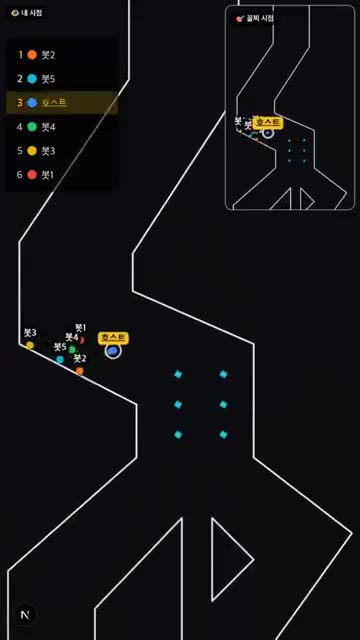
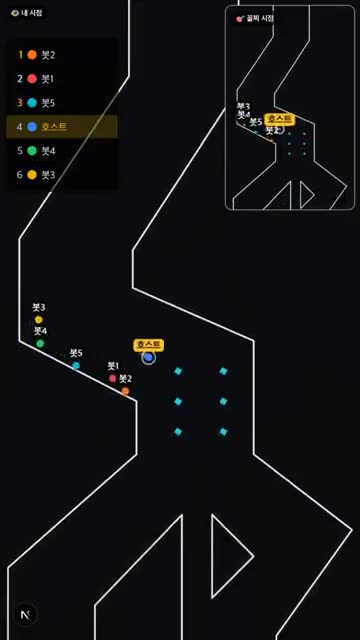
feat: 히어로 5게임 하이라이트 + 로비 공개앱 헤더
데모 영상: 3게임(13s) → 5게임 몽타주
- capture-promo.mjs에 marble-cheer(충전 연타)·nonsense 모드 추가
- 충전(📣) → 상식퀴즈 → 반응(지금!) → 넌센스 → 마블레이스 순환
- public/demo-games.{mp4,jpg} 재생성(~205KB)

로비 헤더 브랜드 일관화:
- 평문 타이틀 → 동심원 Logo + '복불복'
- 방 코드를 mono로 또렷하게(W2YCZD), 호스트 태그
- 헤더의 '제작 Mizeloble' 노이즈 제거(랜딩 푸터에 존재)
- 미사용된 i18n roomBadge·madeBy 정리

2.7.0 → 2.7.1. 타입체크 통과, 콘솔 에러 0, 5세그먼트+로비 프리뷰 확인.

diff --git a/src/components/Lobby.tsx b/src/components/Lobby.tsx
@@ -5,6 +5,7 @@ import { ko } from '@/lib/i18n';
 import { useRoomStore } from '@/store/room-store';
 import { GamePicker } from './GamePicker';
 import { GameIntro } from './GameIntro';
+import { Logo } from './Logo';
 import { InviteSheet } from './InviteSheet';
 import { TiltPermissionGate } from '@/games/marble-tilt/TiltPermissionGate';
 import { AdSlot } from './AdSlot';
@@ -73,25 +74,24 @@ export function Lobby({ inviteUrl, onChangeNickname }: { inviteUrl: string; onCh
 
   return (
     <main className="min-h-dvh flex flex-col">
-      {/* top bar — pill-shaped invite button on the right */}
+      {/* top bar — 브랜드 로고 + 방 코드(또렷하게) · 우측 초대 버튼 */}
       <header className="px-4 pt-4 pb-2 flex items-center justify-between gap-3">
-        <div className="min-w-0 flex-1">
-          <div className="font-bold text-base truncate -tracking-wide">{ko.app.title}</div>
-          <div className="text-zinc-500 text-xs mt-0.5 flex items-center gap-1.5">
-            <span>{ko.lobby.roomBadge(state.id, isHost)}</span>
-            <span aria-hidden>·</span>
-            {ko.credit.authorUrl ? (
-              <a
-                href={ko.credit.authorUrl}
-                target="_blank"
-                rel="noreferrer noopener"
-                className="underline-offset-2 hover:underline hover:text-zinc-300"
-              >
-                {ko.app.madeBy}
-              </a>
-            ) : (
-              <span>{ko.app.madeBy}</span>
-            )}
+        <div className="min-w-0 flex-1 flex items-center gap-2.5">
+          <Logo size={30} className="shrink-0" />
+          <div className="min-w-0">
+            <div className="font-bold text-base truncate -tracking-wide leading-tight">
+              {ko.app.title}
+            </div>
+            <div className="text-zinc-500 text-xs mt-0.5 flex items-center gap-1">
+              <span>{ko.lobby.roomLabel}</span>
+              <span className="font-mono tracking-wider text-zinc-300">{state.id}</span>
+              {isHost && (
+                <>
+                  <span aria-hidden>·</span>
+                  <span>{ko.lobby.hostTag}</span>
+                </>
+              )}
+            </div>
           </div>
         </div>
         <button

diff --git a/src/lib/i18n.ts b/src/lib/i18n.ts
@@ -17,7 +17,6 @@ export const ko = {
     title: '복불복',
     subtitle: '술자리·모임 벌칙, 폰으로 정하기',
     metaDescription: '앱 설치 없이 폰으로 즐기는 벌칙 정하기 게임 · QR로 모여 미니게임 한 판',
-    madeBy: `제작 ${CREDIT_AUTHOR}`,
   },
   landing: {
     createRoom: '방 만들기',
@@ -58,7 +57,8 @@ export const ko = {
     comingSoon: '준비 중',
     meBadge: '나',
     cancel: '취소',
-    roomBadge: (id: string, isHost: boolean) => `방 ${id}${isHost ? ' · 호스트' : ''}`,
+    roomLabel: '방',
+    hostTag: '호스트',
     addManualTitle: '직접 추가',
     addManualHint: '폰 없는 사람을 호스트가 대신 등록',
     addManualPlaceholder: '닉네임 입력',